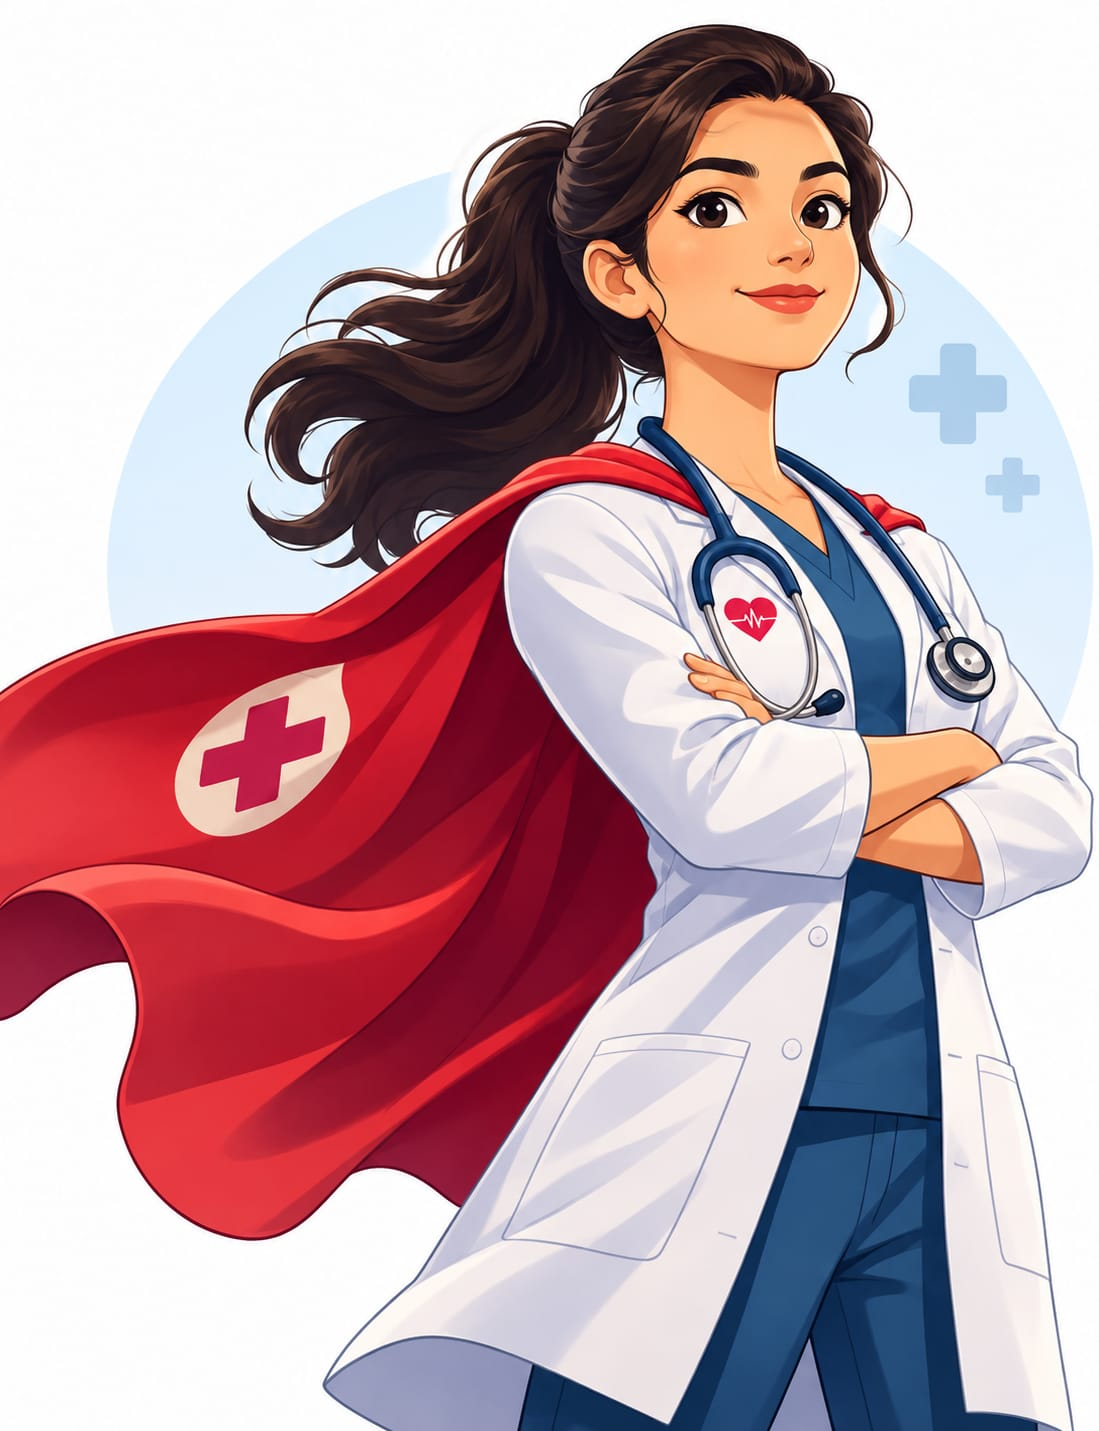
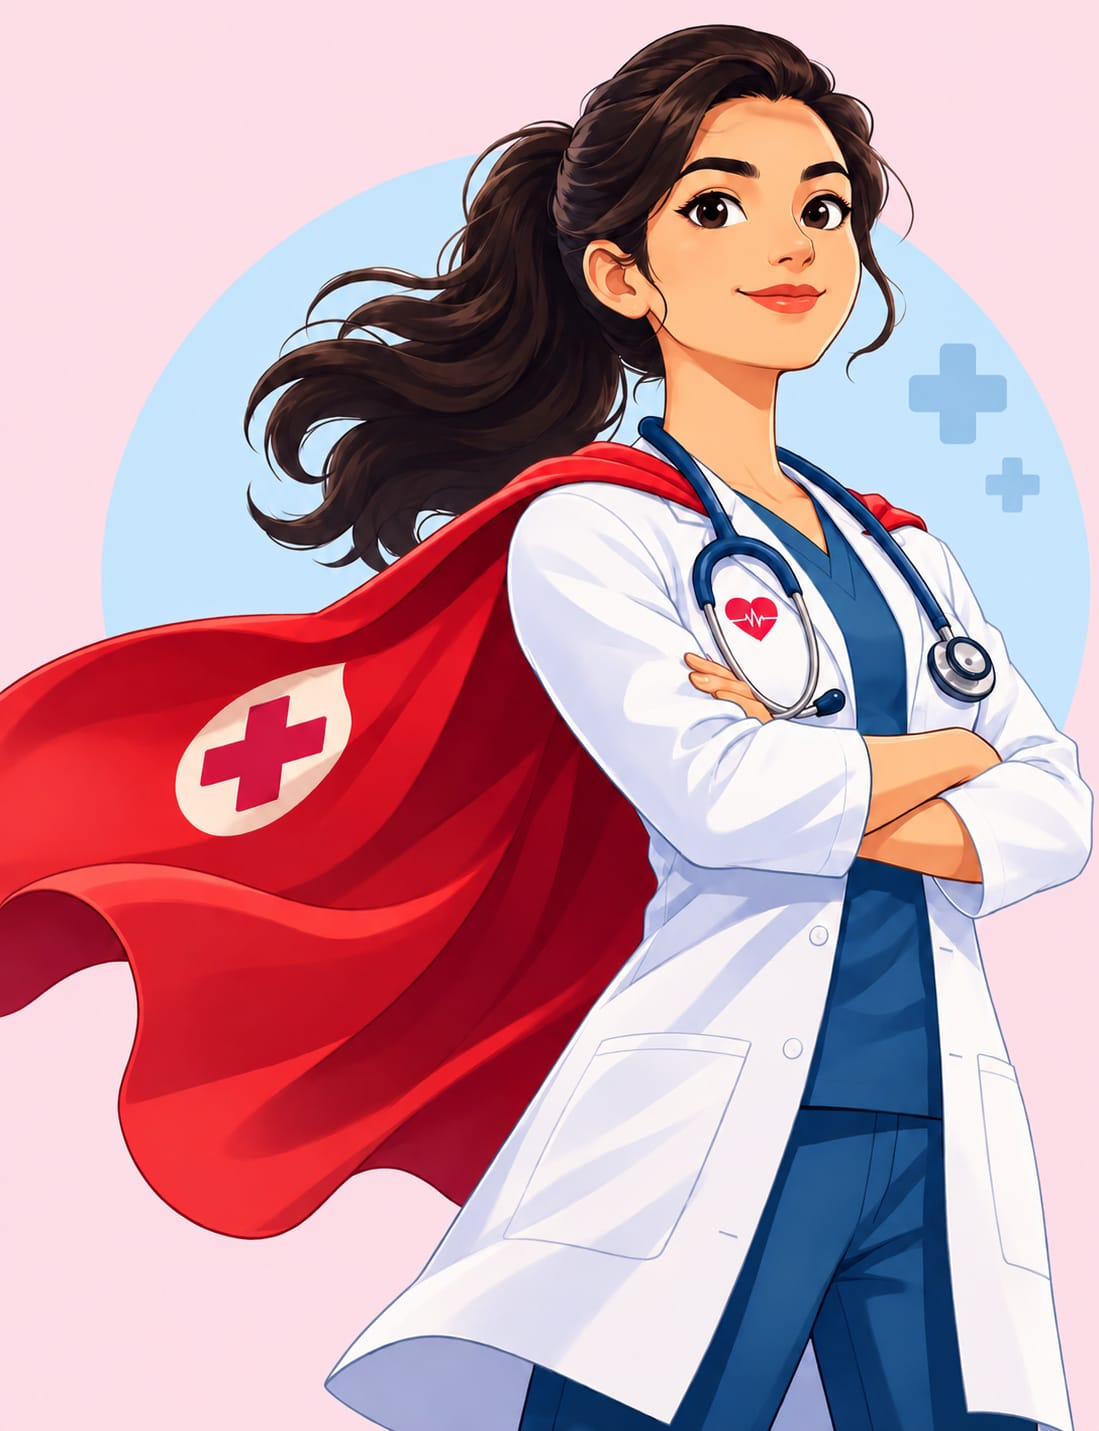
hero-doctor image change

diff --git a/frontend/src/pages/Landing/RoleSection.css b/frontend/src/pages/Landing/RoleSection.css
@@ -432,9 +432,8 @@
   }
 
   .hero-doctor {
-    width: 195px;
-
-    height: 108px;
+    width: 170px;
+    height: 92px;
   }
 
   .hero-bg {
@@ -535,4 +534,11 @@
   .roles {
     flex: 0 0 180px;
   }
+}
+
+.hero-doctor {
+  background: #f3e0e3;
+  border-radius: 37px;
+  margin-left: -8px;
+  border: 2px solid pink;
 }

diff --git a/backend/src/server.js b/backend/src/server.js
@@ -38,7 +38,7 @@ const startServer = async () => {
 
     await connectRedis();
 
-    server.listen(PORT, () => {
+    server.listen(PORT, "0.0.0.0", () => {
       console.log(`NirogaHub server running on port ${PORT}`);
       console.log(`Socket.IO running on port ${PORT}`);
     });
